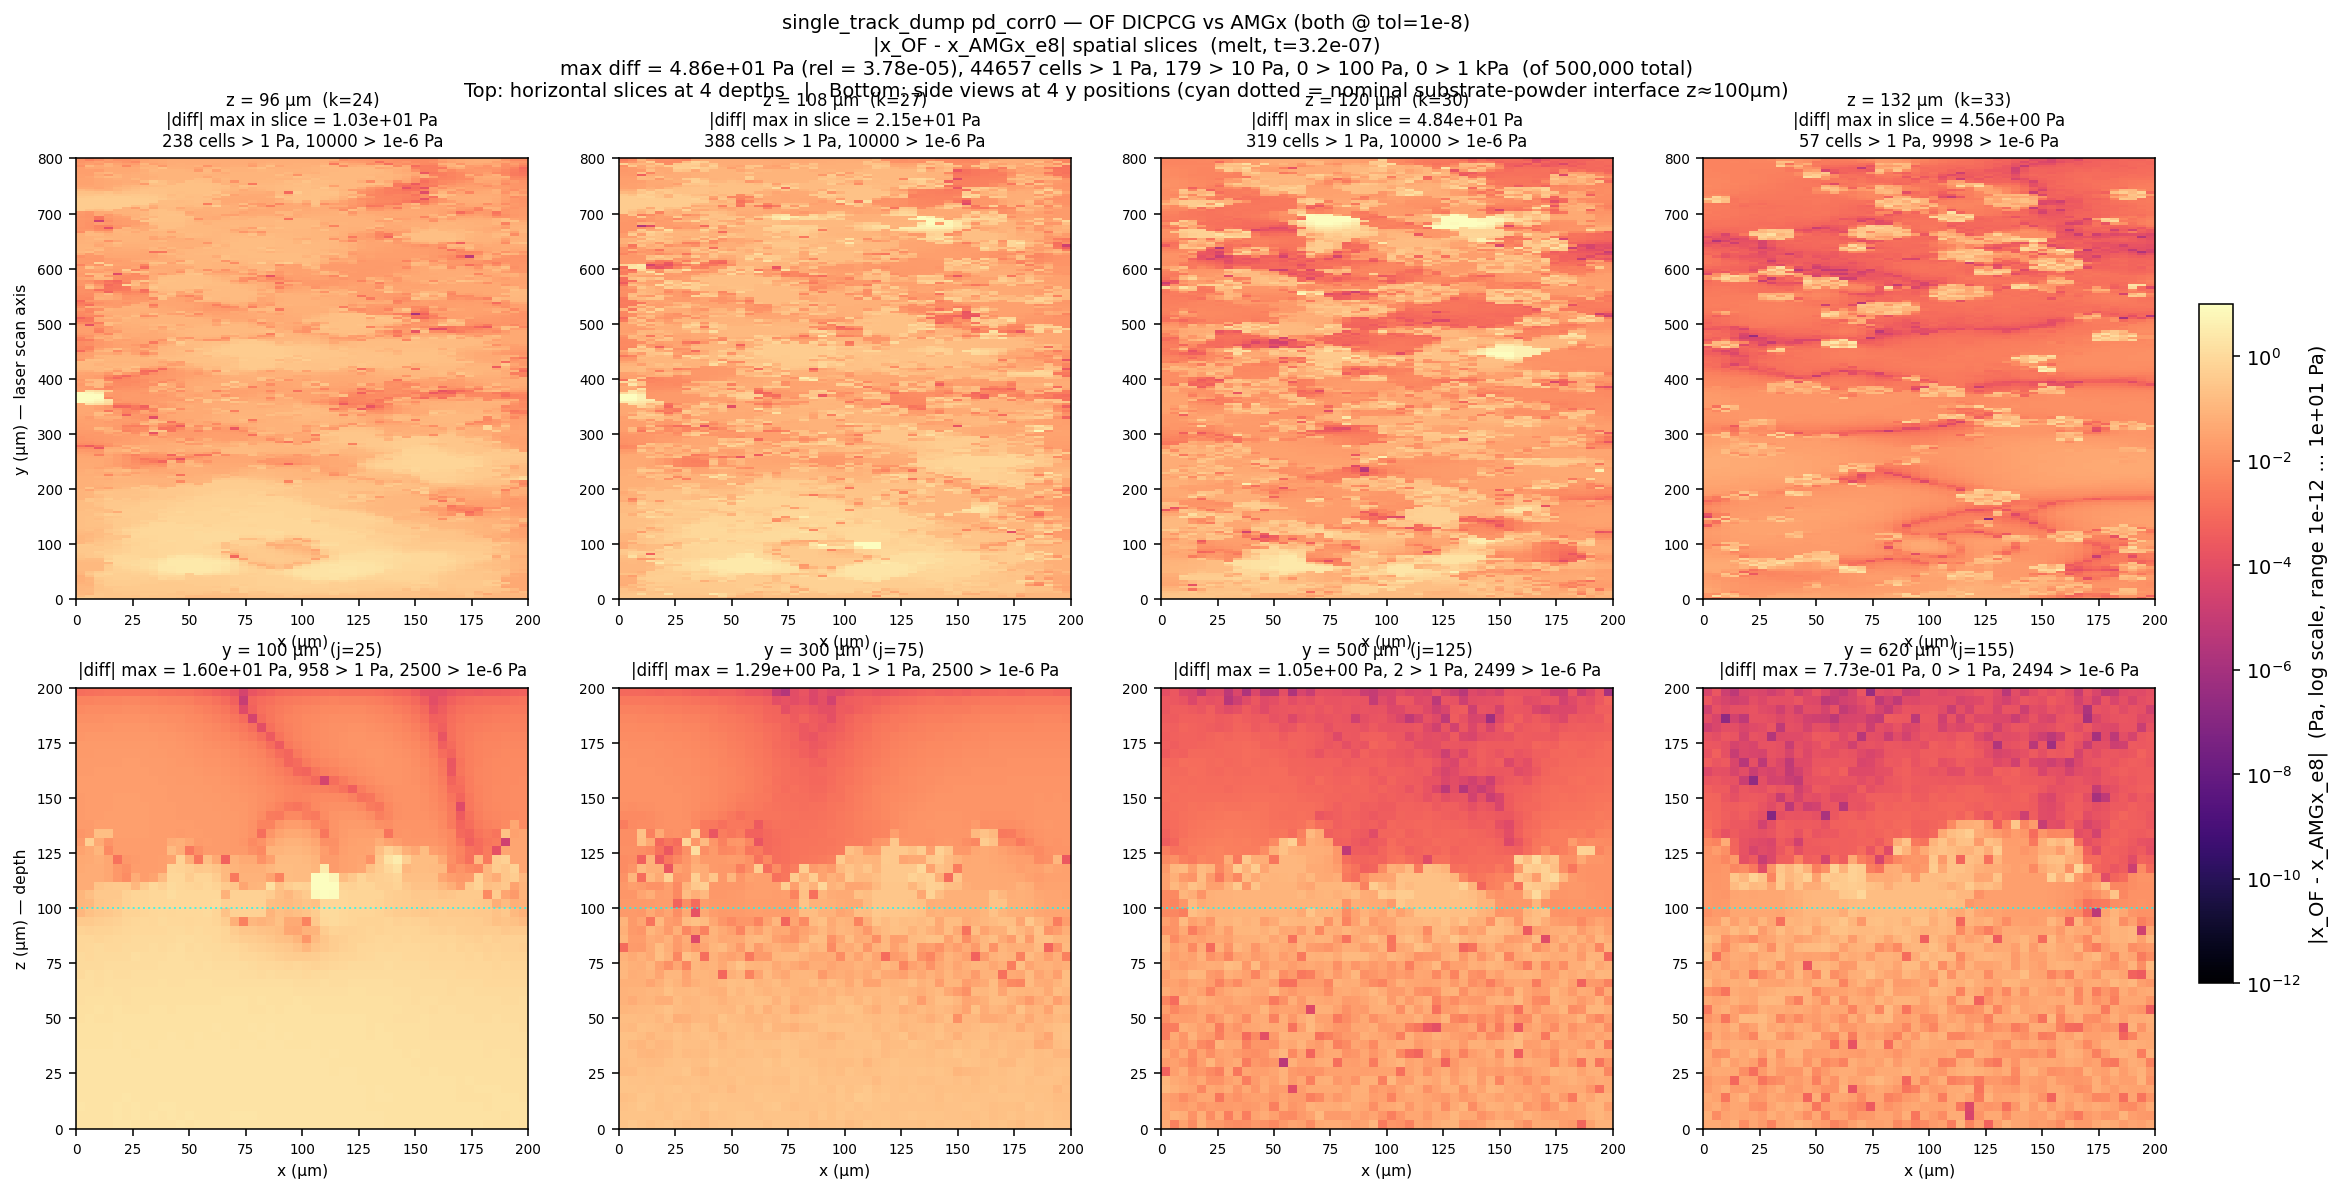
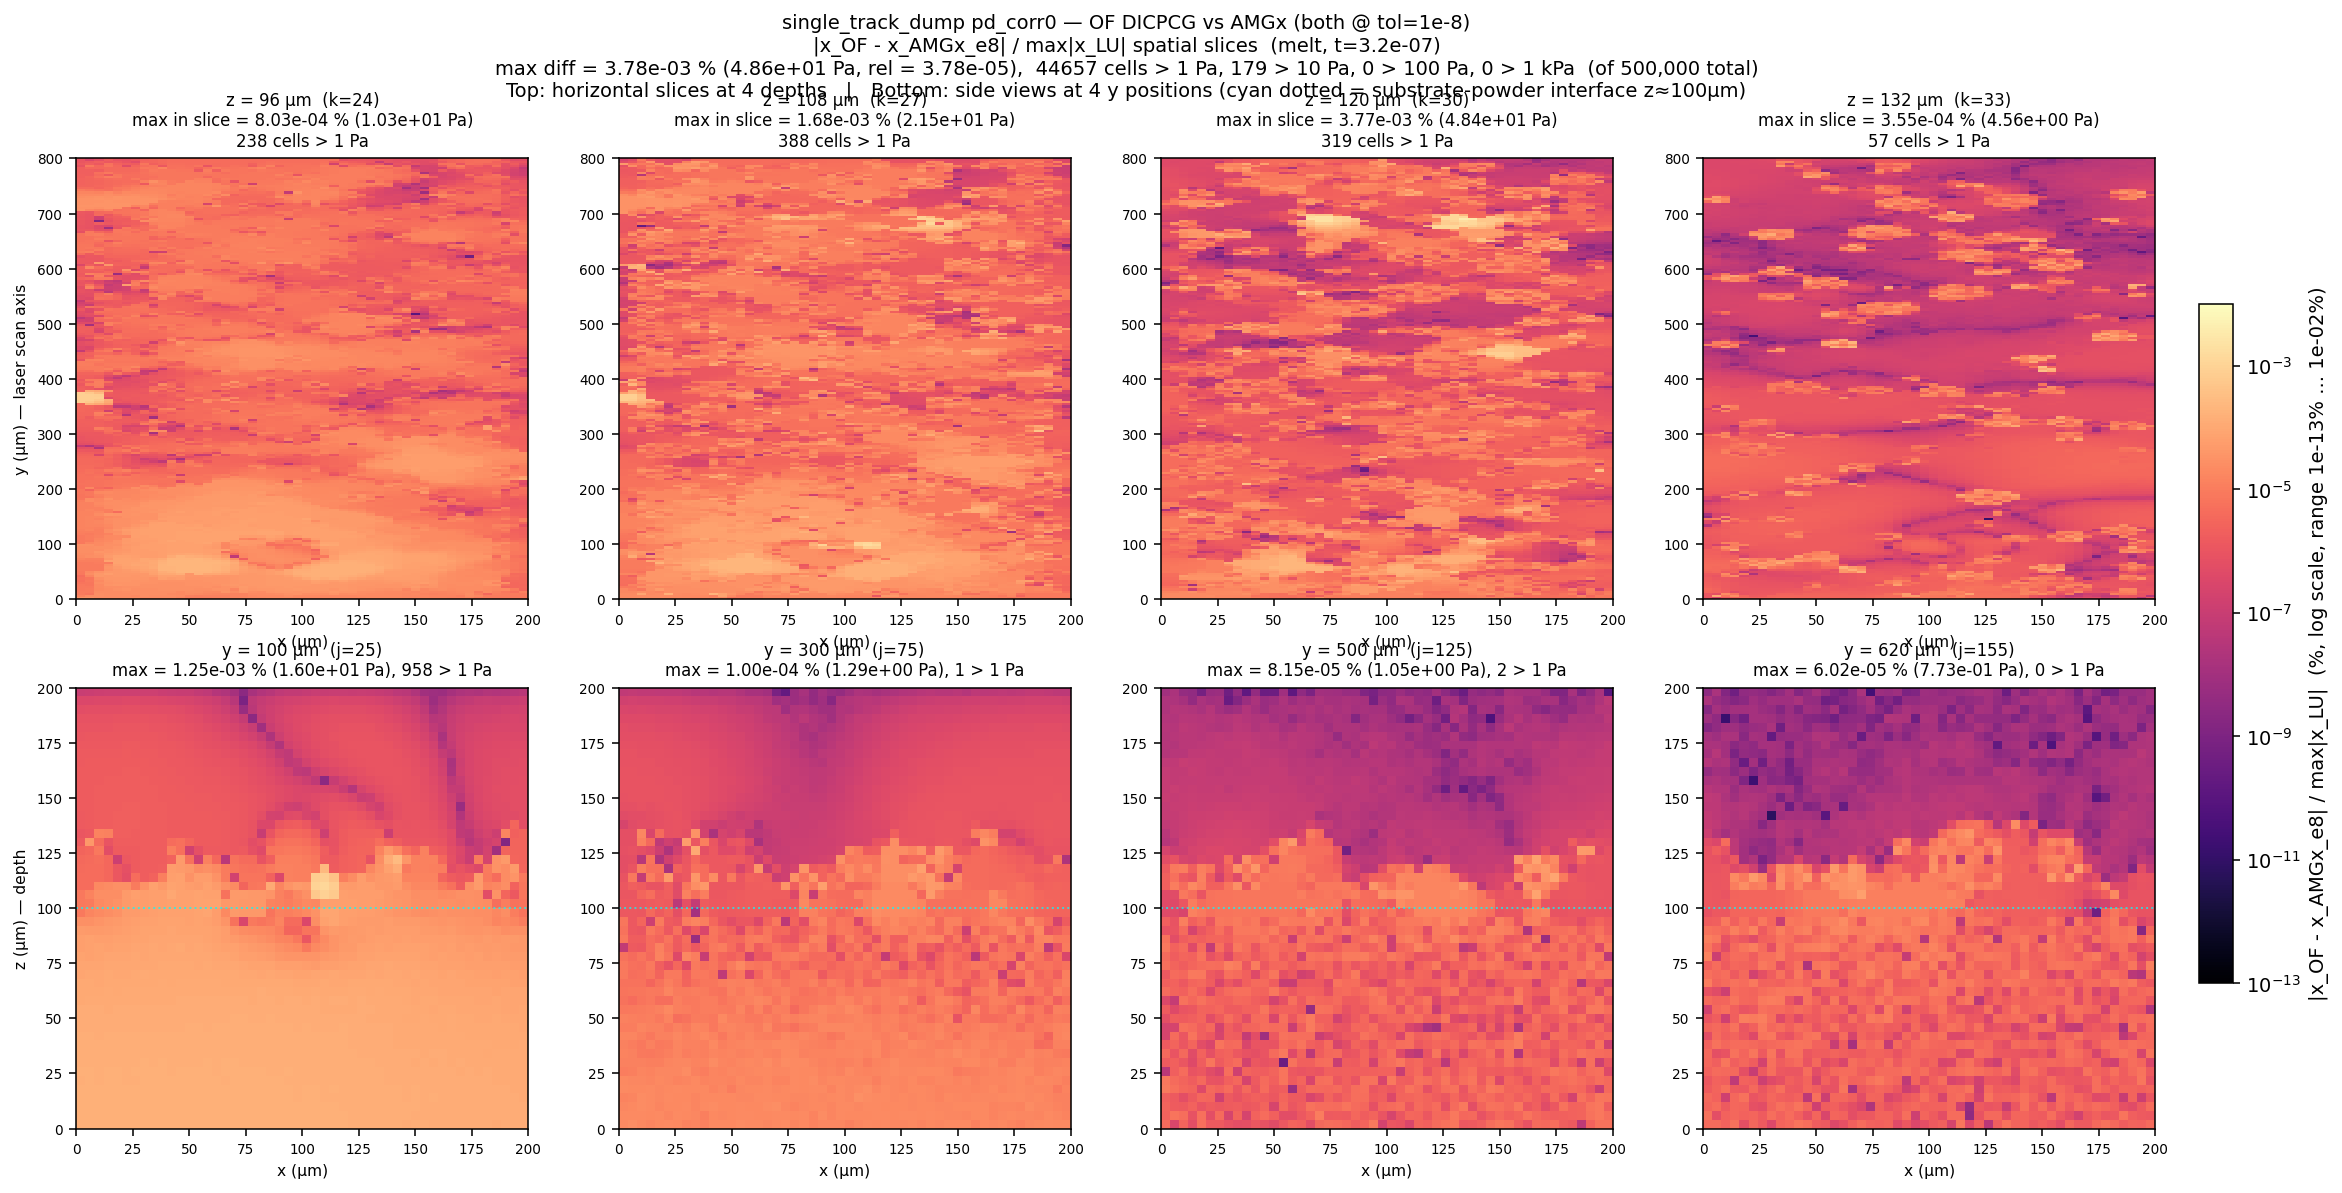
diff-slice plots switched to relative % colorbar (range 1e-13% to 1e-2%, 11-decade log scale)

diff --git a/dilu/amgx/bench/plot_single_track_solver_diff_slices.py b/dilu/amgx/bench/plot_single_track_solver_diff_slices.py
@@ -36,12 +36,13 @@ Z_SLICES_UM = [96, 108, 120, 132]
 # Y-position side-view slices (μm)
 Y_SLICES_UM = [100, 300, 500, 620]
 
-# Log color scale: vmin=1e-12 Pa, vmax=1e1 Pa (user request 2026-05-13)
-# 13 orders of magnitude covers everything from AMGx+IR vs LU (~1e-12 Pa quantum)
-# to OF vs AMGx PCG (~10 Pa max).  Unified scale lets all 3 solver pairs be
-# compared on the same colorbar.
-VMIN = 1e-12
-VMAX = 1e1  # 10 Pa
+# Log color scale on RELATIVE diff in % (= |Δ| / max|x_LU| × 100).
+# Range chosen to cover all 3 solver pairs on the same colorbar:
+#   AMGx+IR vs LU truth:    rel_max ~ 1e-11 = 1e-9 %
+#   OF / AMGx_e8 vs truth:  rel_max ~ 1e-5  = 1e-3 %
+#   max|Δ| Pa to % ratio:   ~1.28 MPa peak  →  1 Pa = 7.8e-5 %
+VMIN = 1e-13  # %  (below AMGx+IR noise floor)
+VMAX = 1e-2   # %  (above OF tol=1e-8 typical drift)
 
 # Powder surface (substrate top) for cyan reference line in side views
 POWDER_SURFACE_UM = 100.0
@@ -91,17 +92,20 @@ def main(phase: str, t: str, pair: str = "OF_vs_AMGx_e8"):
     else:
         raise ValueError(f"unknown pair {pair}")
 
-    diff_flat = np.abs(a - b)
+    diff_flat_Pa = np.abs(a - b)
+    x_max = float(np.max(np.abs(b)))  # peak of reference solution (used as normalizer)
+    diff_flat = diff_flat_Pa / max(x_max, 1e-300) * 100.0  # relative diff in %
     diff_vol = to_volume(diff_flat, case)
-    x_max = float(np.max(np.abs(b)))  # scale relative to one of the solutions
+    diff_vol_Pa = to_volume(diff_flat_Pa, case)
 
-    # Global stats
-    max_diff = float(diff_flat.max())
-    rel_max = max_diff / max(x_max, 1e-300)
-    cells_gt_1Pa = int(np.sum(diff_flat > 1.0))
-    cells_gt_10Pa = int(np.sum(diff_flat > 10.0))
-    cells_gt_100Pa = int(np.sum(diff_flat > 100.0))
-    cells_gt_1kPa = int(np.sum(diff_flat > 1000.0))
+    # Global stats (both Pa and %)
+    max_diff_Pa = float(diff_flat_Pa.max())
+    max_diff_pct = float(diff_flat.max())  # = rel_max × 100
+    rel_max = max_diff_Pa / max(x_max, 1e-300)
+    cells_gt_1Pa = int(np.sum(diff_flat_Pa > 1.0))
+    cells_gt_10Pa = int(np.sum(diff_flat_Pa > 10.0))
+    cells_gt_100Pa = int(np.sum(diff_flat_Pa > 100.0))
+    cells_gt_1kPa = int(np.sum(diff_flat_Pa > 1000.0))
 
     fig, axes = plt.subplots(2, 4, figsize=(20, 9))
     cmap = "magma"
@@ -121,11 +125,11 @@ def main(phase: str, t: str, pair: str = "OF_vs_AMGx_e8"):
         X, Y = np.meshgrid(x_cc, y_cc)
         im = ax.pcolormesh(X, Y, slc_disp, norm=norm, cmap=cmap,
                             shading="auto", rasterized=True)
-        n_gt1 = int(np.sum(slc > 1.0))
-        n_med = int(np.sum(slc > 1e-6))
+        slc_Pa = diff_vol_Pa[k, :, :]
+        n_gt1 = int(np.sum(slc_Pa > 1.0))
         ax.set_title(f"z = {z_um} μm  (k={k})\n"
-                      f"|diff| max in slice = {slc.max():.2e} Pa\n"
-                      f"{n_gt1} cells > 1 Pa, {n_med} > 1e-6 Pa", fontsize=8.5)
+                      f"max in slice = {slc.max():.2e} % ({slc_Pa.max():.2e} Pa)\n"
+                      f"{n_gt1} cells > 1 Pa", fontsize=8.5)
         ax.set_xlabel("x (μm)", fontsize=8)
         if col == 0: ax.set_ylabel("y (μm) — laser scan axis", fontsize=8)
         ax.set_xlim(0, nx*dx); ax.set_ylim(0, ny*dx)
@@ -136,7 +140,7 @@ def main(phase: str, t: str, pair: str = "OF_vs_AMGx_e8"):
     for col, y_um in enumerate(Y_SLICES_UM):
         ax = axes[1, col]
         j = int(round(y_um / dx))
-        slc = diff_vol[:, j, :]   # shape (nz, nx)
+        slc = diff_vol[:, j, :]   # shape (nz, nx), in %
         slc_disp = np.maximum(slc, VMIN)
 
         x_cc = (np.arange(nx) + 0.5) * dx
@@ -146,10 +150,10 @@ def main(phase: str, t: str, pair: str = "OF_vs_AMGx_e8"):
                        shading="auto", rasterized=True)
         # cyan reference at powder/substrate interface
         ax.axhline(POWDER_SURFACE_UM, color="cyan", linestyle=":", linewidth=1, alpha=0.7)
-        n_gt1 = int(np.sum(slc > 1.0))
-        n_med = int(np.sum(slc > 1e-6))
+        slc_Pa = diff_vol_Pa[:, j, :]
+        n_gt1 = int(np.sum(slc_Pa > 1.0))
         ax.set_title(f"y = {y_um} μm  (j={j})\n"
-                      f"|diff| max = {slc.max():.2e} Pa, {n_gt1} > 1 Pa, {n_med} > 1e-6 Pa", fontsize=8.5)
+                      f"max = {slc.max():.2e} % ({slc_Pa.max():.2e} Pa), {n_gt1} > 1 Pa", fontsize=8.5)
         ax.set_xlabel("x (μm)", fontsize=8)
         if col == 0: ax.set_ylabel("z (μm) — depth", fontsize=8)
         ax.set_xlim(0, nx*dx); ax.set_ylim(0, nz*dx)
@@ -160,23 +164,24 @@ def main(phase: str, t: str, pair: str = "OF_vs_AMGx_e8"):
     cbar = fig.colorbar(plt.cm.ScalarMappable(norm=norm, cmap=cmap),
                          ax=axes.ravel().tolist(), shrink=0.7, pad=0.02,
                          fraction=0.022)
-    cbar.set_label(f"{field_name}  (Pa, log scale, range {VMIN:.0e} ... {VMAX:.0e} Pa)",
-                    fontsize=10)
+    cbar.set_label(f"{field_name} / max|x_LU|  (%, log scale, "
+                    f"range {VMIN:.0e}% ... {VMAX:.0e}%)", fontsize=10)
 
     fig.suptitle(
         f"single_track_dump pd_corr0 — {title_pair}\n"
-        f"{field_name} spatial slices  ({phase}, t={t})\n"
-        f"max diff = {max_diff:.2e} Pa (rel = {rel_max:.2e}), "
+        f"{field_name} / max|x_LU| spatial slices  ({phase}, t={t})\n"
+        f"max diff = {max_diff_pct:.2e} % ({max_diff_Pa:.2e} Pa, rel = {rel_max:.2e}),  "
         f"{cells_gt_1Pa} cells > 1 Pa, {cells_gt_10Pa} > 10 Pa, "
         f"{cells_gt_100Pa} > 100 Pa, {cells_gt_1kPa} > 1 kPa  (of {N:,} total)\n"
         f"Top: horizontal slices at 4 depths   |   "
-        f"Bottom: side views at 4 y positions (cyan dotted = nominal substrate-powder interface z≈{POWDER_SURFACE_UM:.0f}μm)",
+        f"Bottom: side views at 4 y positions (cyan dotted = substrate-powder interface z≈{POWDER_SURFACE_UM:.0f}μm)",
         fontsize=10, y=0.995
     )
     out = OUTDIR / f"single_track_{phase}_{t}_{pair}_diff_slices.png"
     fig.savefig(out, dpi=140, bbox_inches="tight")
     plt.close(fig)
-    print(f"  → {out}  (max|Δ|={max_diff:.2e}Pa, rel={rel_max:.2e}, >1Pa={cells_gt_1Pa}, >10Pa={cells_gt_10Pa})")
+    print(f"  → {out}  (max|Δ|={max_diff_Pa:.2e}Pa = {max_diff_pct:.2e}%, "
+          f">1Pa={cells_gt_1Pa}, >10Pa={cells_gt_10Pa})")
 
 
 if __name__ == "__main__":
